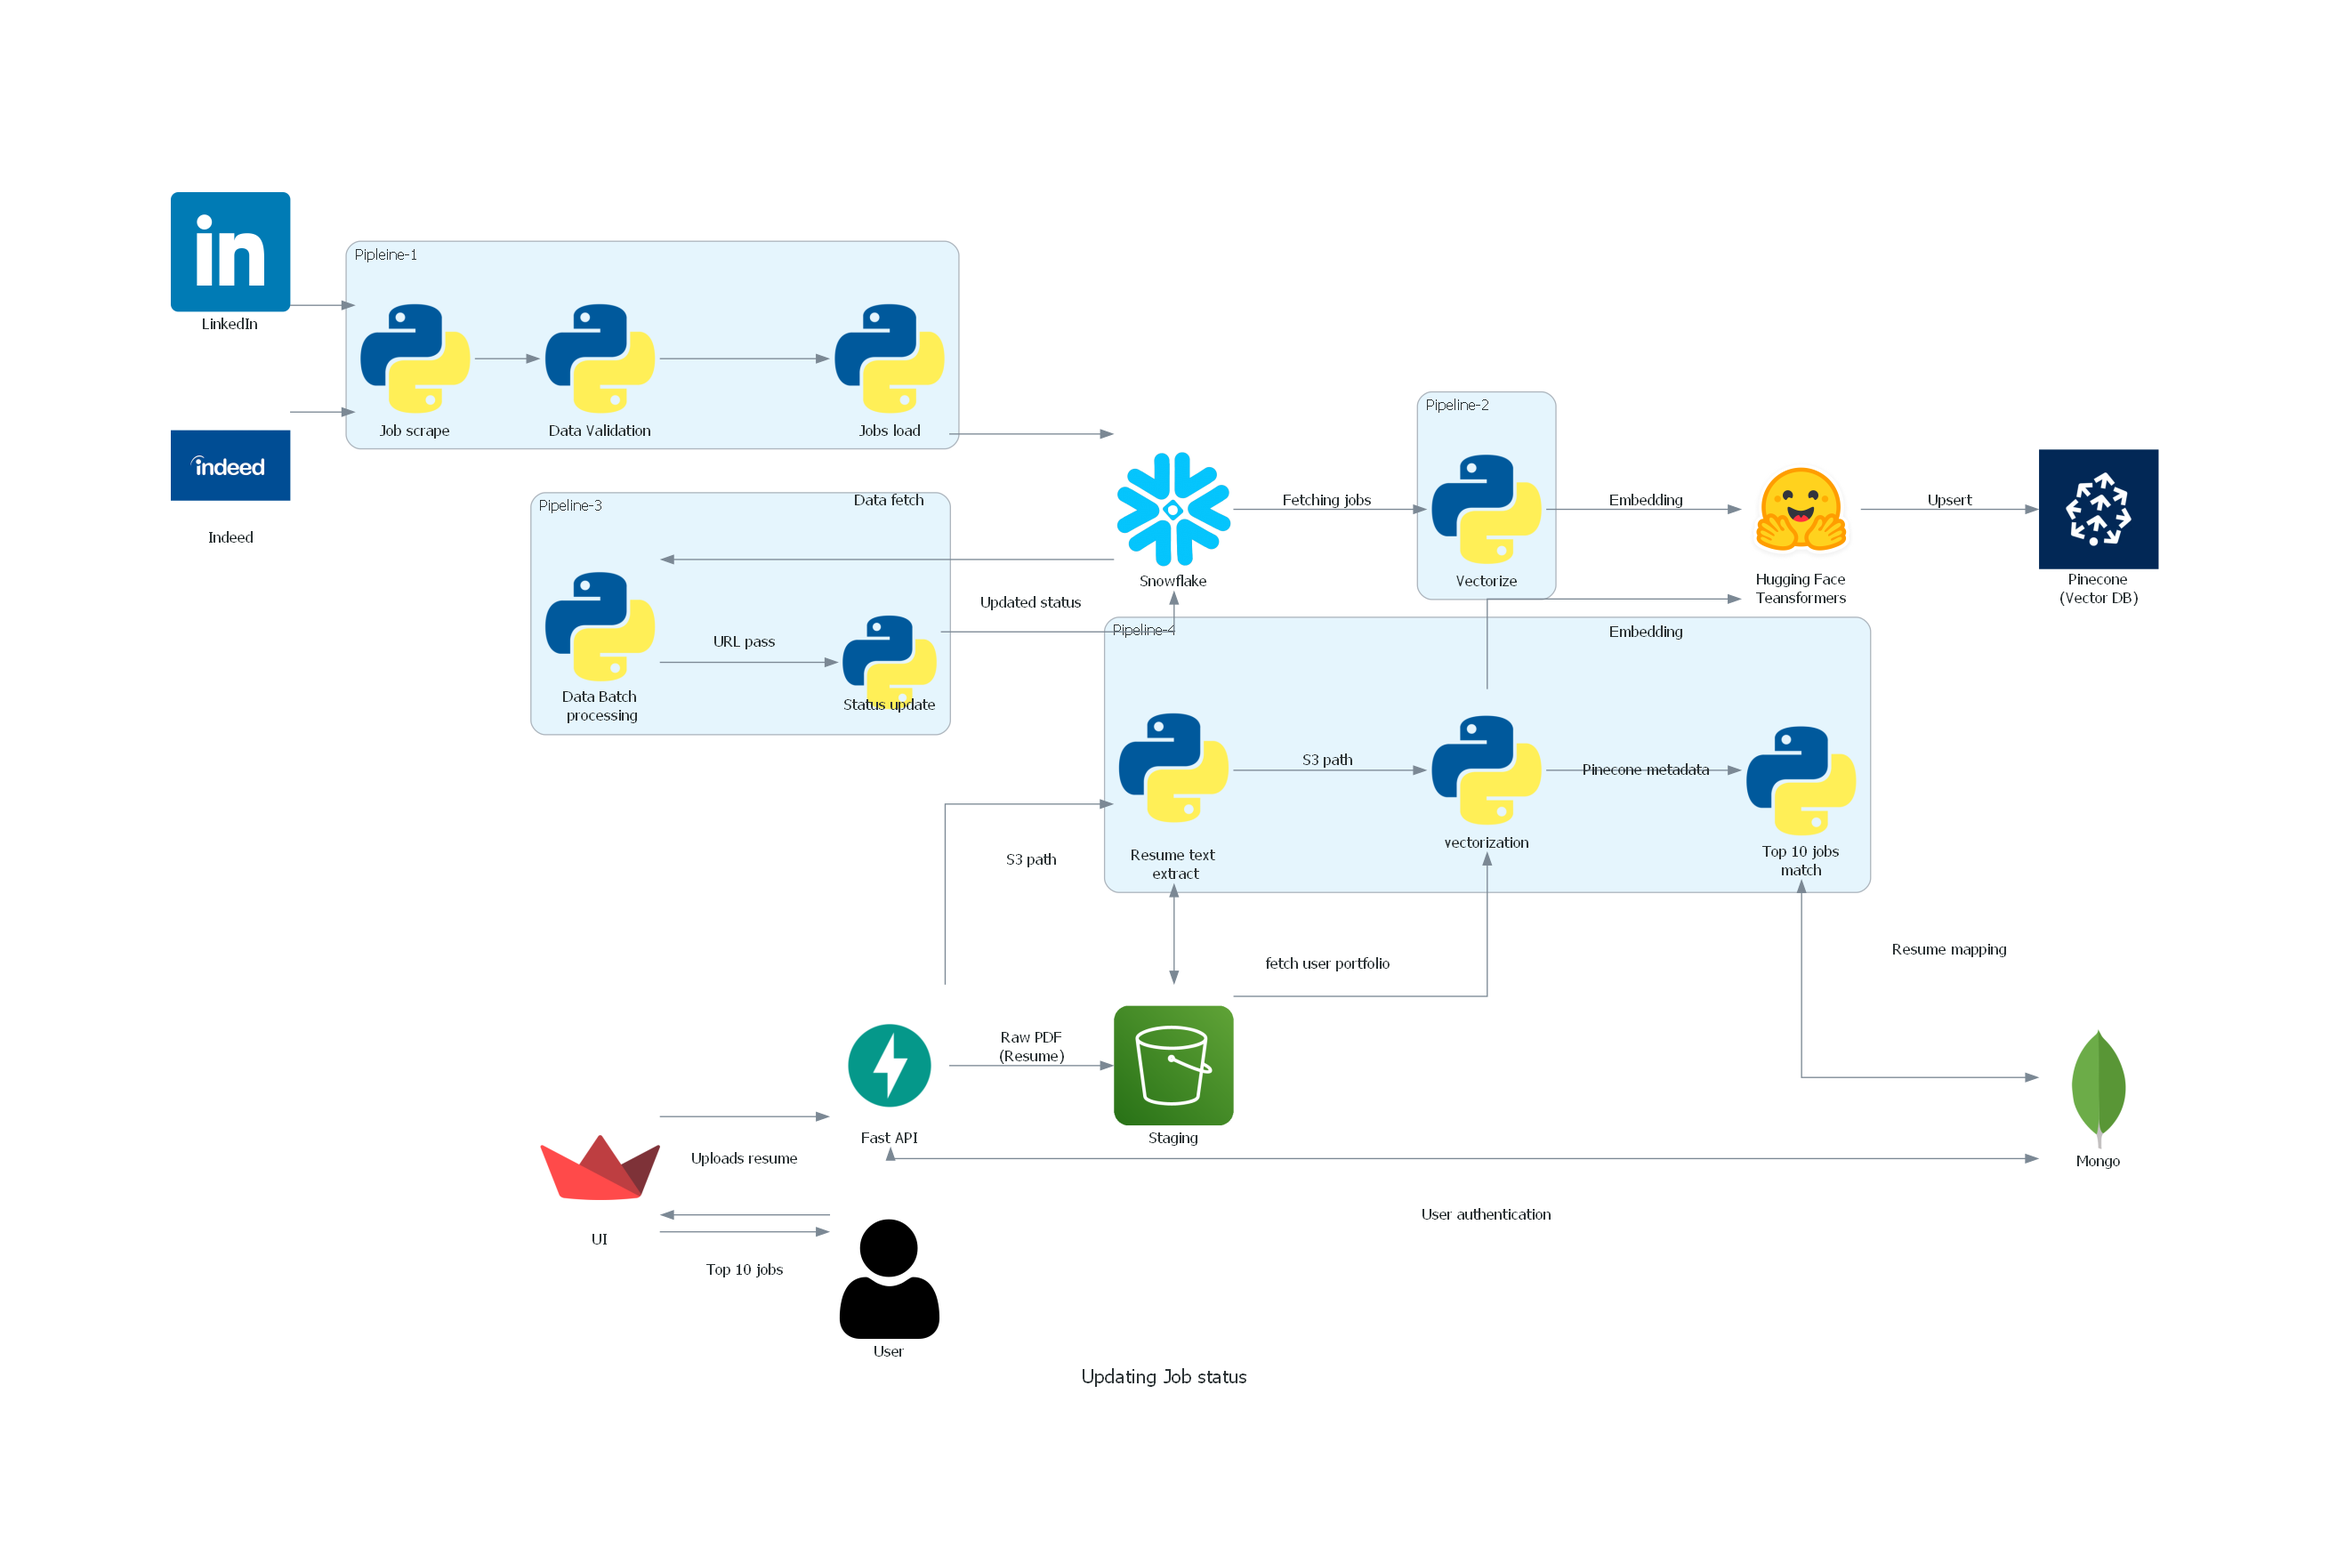
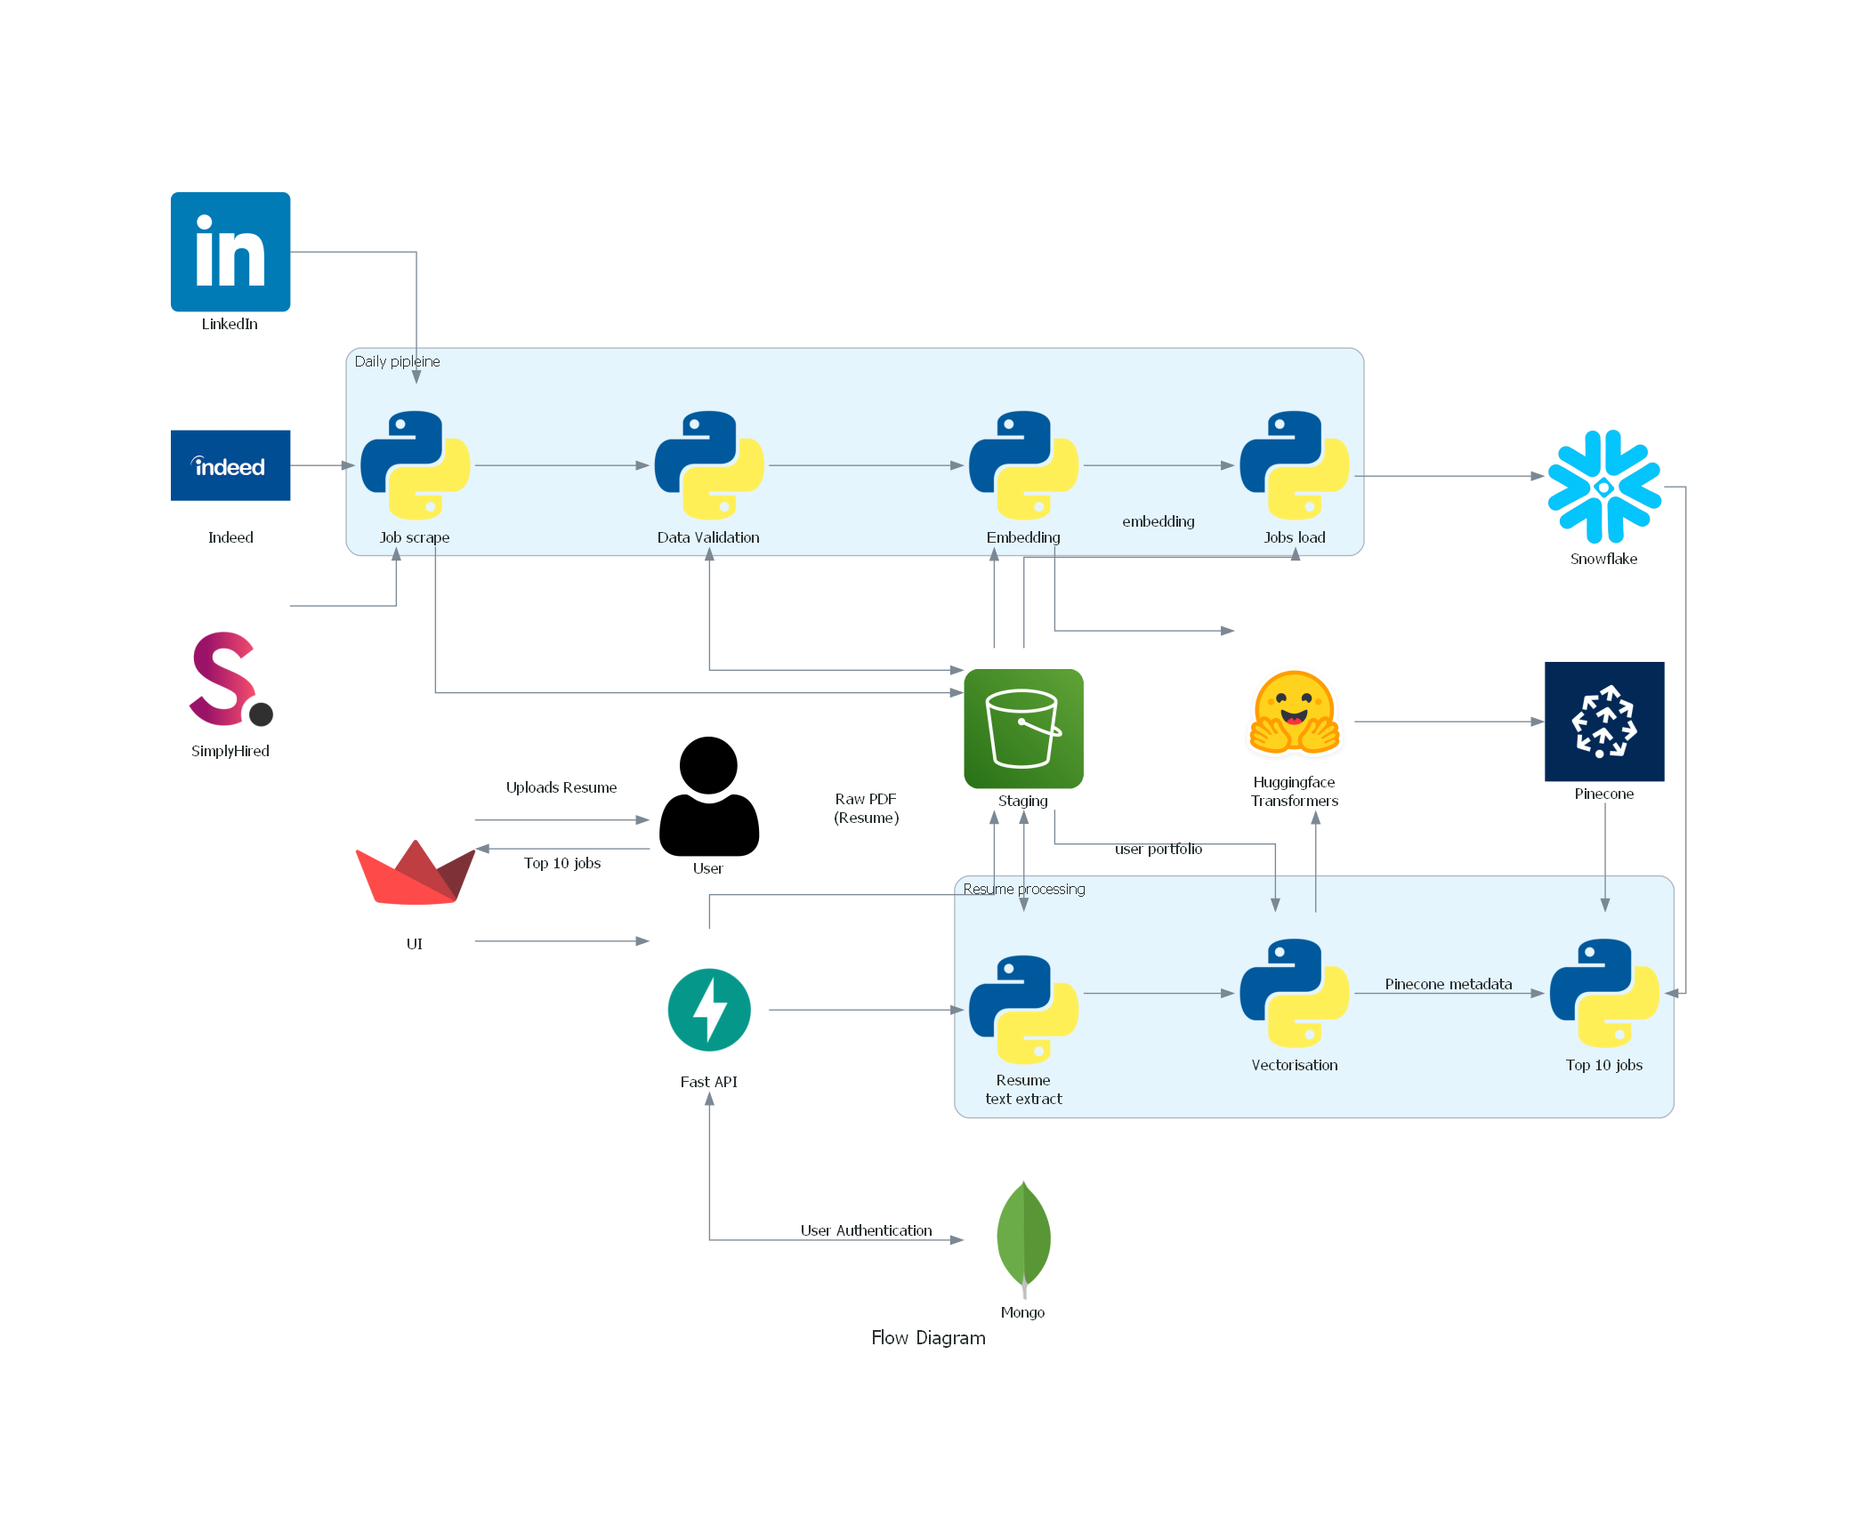
architecture diagram and readme updated

diff --git a/README.md b/README.md
@@ -1,10 +1,22 @@
-# Job Match - Redefining your Career Path
+# JobMatch - Job Recommendation System 
+
+## Live application links
 
 [![codelab](https://img.shields.io/badge/codelabs-4285F4?style=for-the-badge&logo=codelabs&logoColor=white)](https://codelabs-preview.appspot.com/?file_id=1xOJo6D40dsWjctPaj2Z7uZlOG9cHrW0DRejiGDkK9XM#0)
 
+[![Demo](https://img.shields.io/badge/Demo_Link-808080?style=for-the-badge&logo=YouTube&logoColor=white)]()
+
 ## Overview
 
-JobMatch is a revolutionary Job Recommendation System designed to streamline and enhance the job search experience by centralizing the job search process and by analyzing user uploaded resumes. JobMatch provides tailored job recommendations from top platforms like LinkedIn and Indeed. Users gain direct access to recommended job listings, ensuring a personalized and efficient job search experience.
+JobMatch is a revolutionary Job Recommendation System designed to streamline and enhance the job search experience by centralizing the job search process and by analyzing user uploaded resumes. JobMatch provides tailored job recommendations from top platforms like LinkedIn, Indeed, and SimplyHired. Users gain direct access to recommended job listings, ensuring a personalized and efficient job search experience.
+
+## Problem Statement
+
+### Challenge:
+The current scenario for the job search process is really tiresome and exhilarating for job seekers. A user currently has to go through every job portal manually, browse through the available jobs, and make a profile describing the role he/she is targeting; which consumes a lot of time. We wanted to optimize the process by making an application that will bring jobs from different portals and filter them based on the user's resume, by using modern technologies, hence easing the process for job seekers.
+
+### Solution:
+The objective of this project is to develop and deploy an efficient data engineering infrastructure for a Job Recommendation System, termed "JobMatch," which facilitates the seamless matching of job seekers with relevant employment opportunities based on their uploaded resumes. Unlike traditional job search platforms, JobMatch will aggregate jobs from several portals, utilize advanced data processing techniques to analyze the content of user's resumes, and recommend suitable job openings from various sources such as LinkedIn, Indeed, and SimplyHired. The system will not only match job seekers with relevant positions but also provide direct access to the recommended job listings through provided links.
 
 ## Architecture:
 
@@ -13,7 +25,184 @@ JobMatch is a revolutionary Job Recommendation System designed to streamline and
 ## Codelab
 Link: https://codelabs-preview.appspot.com/?file_id=1xOJo6D40dsWjctPaj2Z7uZlOG9cHrW0DRejiGDkK9XM#0
 
-## Team Information and Contribution
+## Technologies Used
+[![Streamlit](https://img.shields.io/badge/Streamlit-FF4B4B?style=for-the-badge&logo=Streamlit&logoColor=white)](https://streamlit.io/)
+[![FastAPI](https://img.shields.io/badge/fastapi-109989?style=for-the-badge&logo=FASTAPI&logoColor=white)](https://fastapi.tiangolo.com/)
+[![Amazon AWS](https://img.shields.io/badge/Amazon_AWS-FF9900?style=for-the-badge&logo=amazonaws&logoColor=white)](https://aws.amazon.com/)
+[![Google Cloud](https://img.shields.io/badge/Google_Cloud-%234285F4.svg?style=for-the-badge&logo=google-cloud&logoColor=white)](https://cloud.google.com)
+[![GitHub](https://img.shields.io/badge/GitHub-100000?style=for-the-badge&logo=github&logoColor=white)](https://github.com/)
+[![Python](https://img.shields.io/badge/Python-FFD43B?style=for-the-badge&logo=python&logoColor=blue)](https://www.python.org/)
+[![Pandas](https://img.shields.io/badge/Pandas-2C2D72?style=for-the-badge&logo=pandas&logoColor=white)](https://pandas.pydata.org/)
+[![NumPy](https://img.shields.io/badge/Numpy-777BB4?style=for-the-badge&logo=numpy&logoColor=white)](https://numpy.org/)
+[![OpenAI](https://img.shields.io/badge/OpenAI-412991?style=for-the-badge&logo=openai&logoColor=white)](https://openai.com/)
+[![Snowflake](https://img.shields.io/badge/Snowflake-0093F1?style=for-the-badge&logo=snowflake&logoColor=white)](https://www.snowflake.com/)
+[![HuggingFace](https://img.shields.io/badge/HuggingFace-FF9900?style=for-the-badge)](https://huggingface.co/docs/transformers/en/model_doc/bert)
+[![Docker](https://img.shields.io/badge/Docker-2CA5E0?style=for-the-badge&logo=docker&logoColor=white)](https://www.docker.com/)
+[![Airflow](https://img.shields.io/badge/Airflow-FF4B4B?style=for-the-badge&logo=Apache%20Airflow&logoColor=white)](https://airflow.apache.org/)
+[![Selenium](https://img.shields.io/badge/Selenium-43B02A?style=for-the-badge&logo=Selenium&logoColor=white)](https://www.selenium.dev/)
+[![Plotly](https://img.shields.io/badge/Plotly-239120?style=for-the-badge&logo=plotly&logoColor=white)](https://plotly.com/)
+[![MongoDB](https://img.shields.io/badge/MongoDB-4EA94B?style=for-the-badge&logo=mongodb&logoColor=white)](https://www.mongodb.com/)
+[![Pinecone](https://img.shields.io/badge/Pinecone-220052?style=for-the-badge)](https://www.pinecone.io/)
+
+
+## Project Tree
+
+```
+📦 
+├─ .gitignore
+├─ README.md
+├─ airflow
+│  ├─ .gitignore
+│  ├─ Dockerfile
+│  ├─ configuration.properties.example
+│  ├─ dags
+│  │  ├─ embed
+│  │  │  ├─ configuration.properties.example
+│  │  │  ├─ connections.py
+│  │  │  └─ embed_and_upsert.py
+│  │  ├─ extract
+│  │  │  ├─ configuration.properties.example
+│  │  │  ├─ connections.py
+│  │  │  ├─ extract_indeed_jobs.py
+│  │  │  ├─ extract_linkedin_jobs.py
+│  │  │  └─ extract_simplyhired_jobs.py
+│  │  ├─ load
+│  │  │  ├─ configuration.properties.example
+│  │  │  ├─ connections.py
+│  │  │  └─ loading.py
+│  │  ├─ pipeline_indeed.py
+│  │  ├─ pipeline_linkedin.py
+│  │  ├─ pipeline_simplyhired.py
+│  │  └─ validate
+│  │     ├─ configuration.properties.example
+│  │     ├─ connections.py
+│  │     └─ validation.py
+│  ├─ docker-compose.yaml
+│  └─ requirements.txt
+├─ architecture-diagram
+│  ├─ flow_diagram.ipynb
+│  ├─ flow_diagram.png
+│  └─ input_icons
+│     ├─ huggingface.png
+│     ├─ indeed.png
+│     ├─ linkedin.png
+│     ├─ openai.png
+│     ├─ pdf.png
+│     ├─ pinecone.png
+│     ├─ streamlit.png
+│     ├─ user-authentication.png
+│     └─ user.png
+├─ cloudbuild.yaml
+├─ docker-compose.yaml
+├─ fastapi-backend
+│  ├─ Dockerfile
+│  ├─ configuration.properties.example
+│  ├─ connections.py
+│  ├─ main.py
+│  ├─ requirements.txt
+│  ├─ routes
+│  │  ├─ analyticsRoute.py
+│  │  ├─ authRoute.py
+│  │  └─ userRoutes.py
+│  └─ test_api.py
+├─ requirements.txt
+├─ setup
+│  └─ snowflake_objects.sql
+└─ streamlit-frontend
+   ├─ Dockerfile
+   ├─ components
+   │  ├─ analytics.py
+   │  ├─ get_job_matches.py
+   │  ├─ login_page.py
+   │  ├─ signup_page.py
+   │  └─ upload_page.py
+   ├─ configuration.properties.example
+   ├─ main.py
+   └─ requirements.txt
+```
+©generated by [Project Tree Generator](https://woochanleee.github.io/project-tree-generator)
+
+## Prerequisites
+Before running this project, ensure you have the following prerequisites set up:
+
+- **Python**: Ensure Python is installed on your system.
+- **Docker**: Ensure Docker-desktop is installed on your system.
+- **Virtual Environment**: Set up a virtual environment to manage dependencies and isolate your project's environment from other Python projects. You can create a virtual environment using `virtualenv` or `venv`.
+- **requirements.txt**: Install the required Python dependencies by running the command:
+  ```
+  pip install -r requirements.txt
+  ```
+- **Config File**: Set up the `configurations.properties` file with the necessary credentials and configurations.
+
+- **Snowflake**: Use `setup/snowflake_objects.sql` to define the queries on snowflake. Also, ensure you have the necessary credentials and configurations set up in the `configurations.properties` file for connecting to Snowflake.
+- **Google Cloud Platform**: Create a Google Cloud Engine. Ensure you have the necessary credentials and configurations set up in the `configurations.properties` file.
+
+## How to Run the Application Locally
+
+To run the application locally, follow these steps:
+
+1. Clone the repository to get all the source code on your machine.
+
+2. Use `source/venv/bin/activate` to activate the environment.
+
+3. Create a configuration.properties file in the all the directories where configuration.properties.example is present. Sample config file:
+
+```
+[auth-api]
+SECRET_KEY = 
+ALGORITHM = 
+
+[MongoDB]
+mongo_url = 
+db_name = 
+collection_name = 
+collection_name_markdown = 
+
+[airflow]
+base_url_airflow = 
+password = 
+username = 
+
+[AWS]
+access_key = 
+secret_key = 
+region_name = 
+
+[s3-bucket]
+bucket = 
+resumes_folder_name = 
+text_folder_name = 
+
+[SNOWFLAKE]
+user = 
+password = 
+account = 
+warehouse = 
+database = 
+schema = 
+role = 
+jobsTable = 
+
+[OPENAI]
+api_key = 
+
+[PINECONE]
+pinecone_api_key = 
+index = 
+```
+
+4. Once you have set up your environment variables, Use `docker-compose up - build` to run the application
+
+5. Access the Airflow UI by navigating to http://localhost:8080/ in your web browser.
+
+6. Once the DAGs have run successfully, view the Streamlit application
+
+7. Access the Streamlit UI by navigating to http://localhost:8501/ in your web browser.
+
+8. Enter username and password if you've already logged in. Otherwise you can register yourself and then run the application.
+
+
+## Team Contribution
 
 | Name                      | Contribution % |
 | ------------------------- | -------------- |
